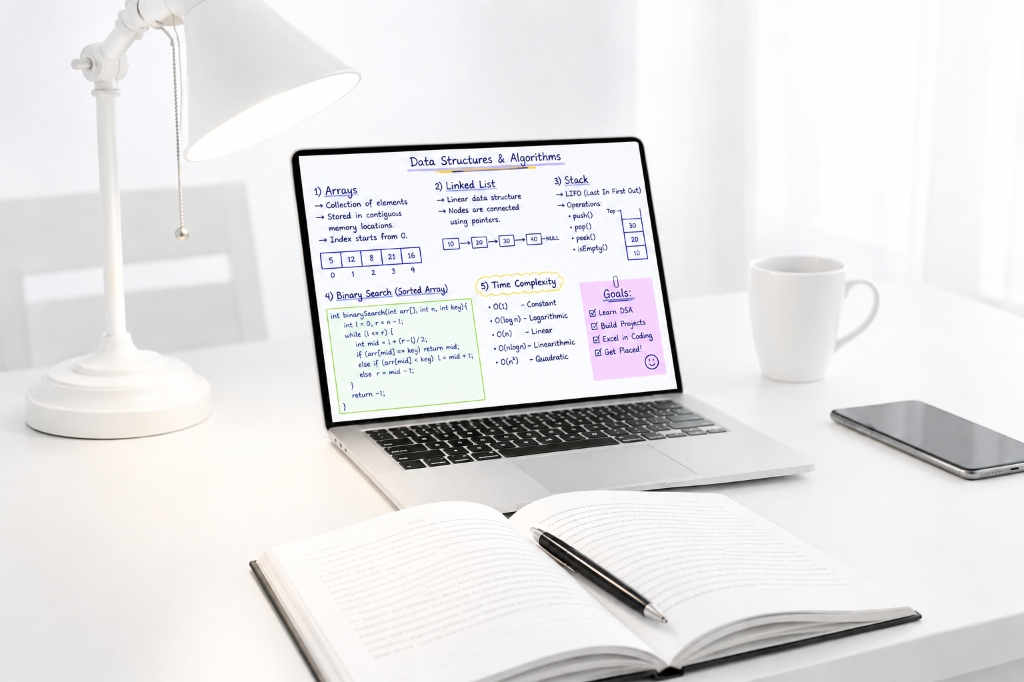
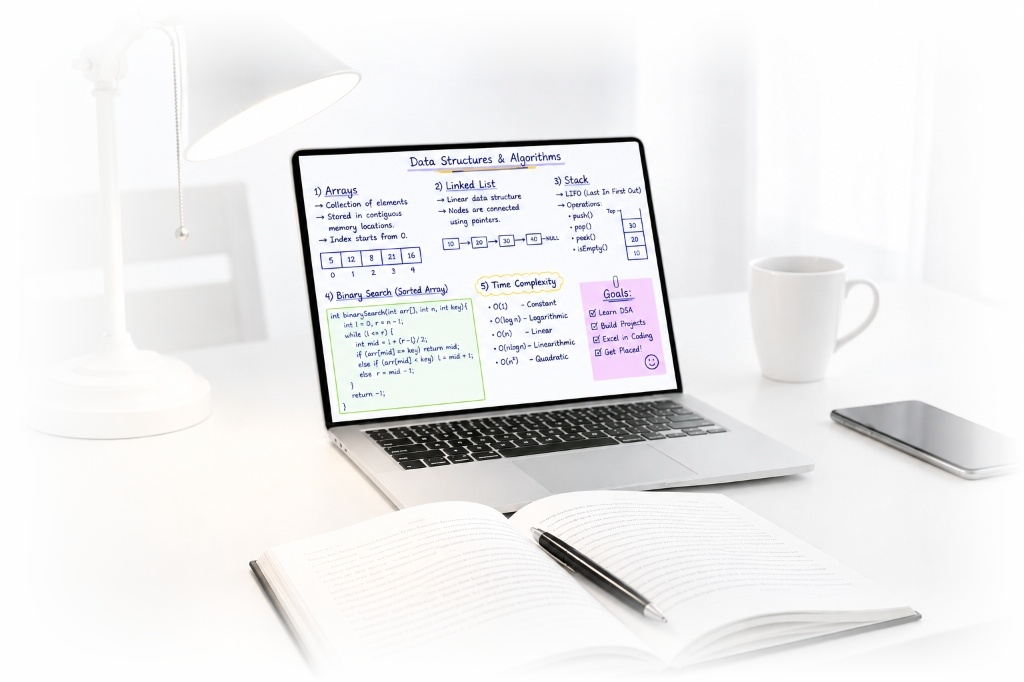
fix(Landing): apply smooth white edge feathering directly to study-desk.jpg for seamless 100% background blending without vertical edge lines

diff --git a/frontend/src/pages/Landing.jsx b/frontend/src/pages/Landing.jsx
@@ -342,9 +342,7 @@ export default function Landing() {
                                 height: 'auto',
                                 maxHeight: '640px',
                                 objectFit: 'contain',
-                                display: 'block',
-                                WebkitMaskImage: 'radial-gradient(ellipse 92% 92% at 50% 50%, rgba(0,0,0,1) 60%, rgba(0,0,0,0) 100%)',
-                                maskImage: 'radial-gradient(ellipse 92% 92% at 50% 50%, rgba(0,0,0,1) 60%, rgba(0,0,0,0) 100%)'
+                                display: 'block'
                             }}
                         />
                     </div>
